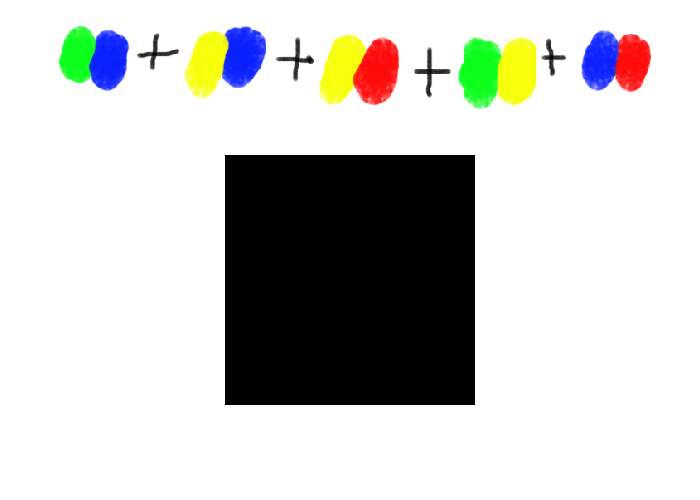
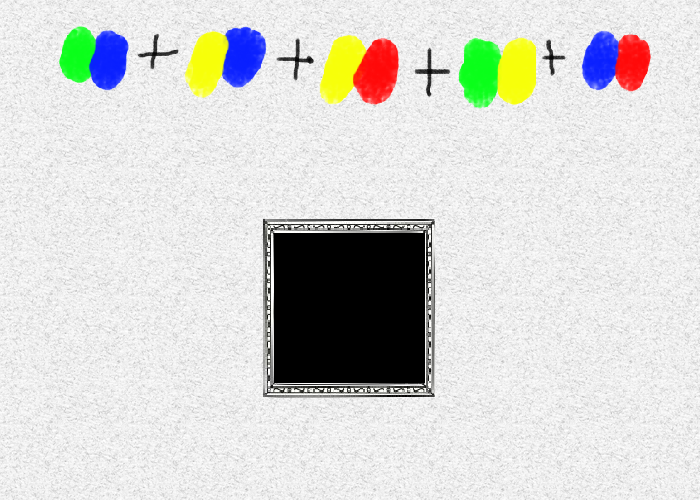
Add files via upload

Changed region(s): [[0.0, 0.0, 1.0, 1.0]]

diff --git a/5/index.html b/5/index.html
@@ -3,7 +3,11 @@
 
   <script src="https://code.jquery.com/jquery-1.12.4.js"></script>
   <script src="https://code.jquery.com/ui/1.12.1/jquery-ui.js"></script>
+  <script src="https://anseki.github.io/plain-draggable/js/libs-0c9dbba-210529120220.js"></script>
+  <script src="https://anseki.github.io/plain-draggable/js/bezier.min.js"></script>
+  <script src="https://anseki.github.io/plain-draggable/js/path-data-polyfill.js"></script>
     <body style="background-color: black;">
+      <img id="그림" src="5.png">
 <div id="틀" >
 <div class = "puzzle" id="red" ></div>
 <div class = "puzzle" id="yellow"></div>
@@ -13,33 +17,85 @@
 </body>
 
 <style>
-  #틀{background-image: url('./5.png');
-background-size: cover;
-width :400px;
-height : 300px;}
+  #그림 {position: absolute;}
+  #틀{
+    position: absolute;
+width :2000px;
+height : 2000px;}
 #red{background-image: url('./4.png');
 background-size: cover;
-width : 400px;
-height : 300px;
+width : 150px;
+height : 150px;
 position: absolute; left: -50px; top: 360px;}
 #yellow{background-image: url('./2.png');
 background-size: cover;
-width : 400px;
-height : 300px;
+width : 150px;
+height : 150px;
 position: absolute; left: -50px; top: 130px;}
 #green{background-image: url('./1.png');
 background-size: cover;
-width : 400px;
-height : 300px;
+width : 150px;
+height : 150px;
 position: absolute; left: 440px; top: 360px;}
 #blue{background-image: url('./3.png');
 background-size: cover;
-width : 400px;
-height : 300px;
+width : 150px;
+height : 150px;
 position: absolute; left: 440px; top: 130px;}
 </style>
 <script>
 
-$('.puzzle').draggable();
+window.addEventListener('load', function() {
+  'use strict';
+
+  new PlainDraggable(document.getElementById('red'), {
+    snap: [
+      {x: 424, y:83, width: 150, height: 150}
+    ],
+    onDragEnd : function (){
+      $("#red").css({ "z-index": "3" });
+      $("#yellow").css({ "z-index": "2" });
+      $("#green").css({ "z-index": "2" });
+      $("#blue").css({ "z-index": "2" });
+    }
+  });
+  new PlainDraggable(document.getElementById('yellow'), {
+    snap: [
+      {x: 424, y:83, width: 150, height: 150}
+    ],
+    onDragEnd : function (){
+      $("#red").css({ "z-index": "2" });
+      $("#yellow").css({ "z-index": "3" });
+      $("#green").css({ "z-index": "2" });
+      $("#blue").css({ "z-index": "2" });
+    }
+
+  });
+  new PlainDraggable(document.getElementById('green'), {
+    snap: [
+      {x: 424, y:83, width: 150, height: 150}
+    ]
+    ,
+    onDragEnd : function (){
+      $("#red").css({ "z-index": "2" });
+      $("#yellow").css({ "z-index": "2" });
+      $("#green").css({ "z-index": "3" });
+      $("#blue").css({ "z-index": "2" });
+    }
+  });
+  new PlainDraggable(document.getElementById('blue'), {
+    snap: [
+      {x: 424, y:83, width: 150, height: 150}
+    ],
+    onDragEnd : function (){
+      $("#red").css({ "z-index": "2" });
+      $("#yellow").css({ "z-index": "2" });
+      $("#green").css({ "z-index": "2" });
+      $("#blue").css({ "z-index": "3" });
+    }
+  });
+
+
+});
 </script>
 </html>
